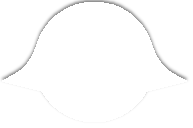
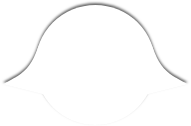
faster animation

diff --git a/index.js b/index.js
@@ -189,26 +189,26 @@ class TabBar extends Component {
     Animated.parallel([
       Animated.timing(this.animatedItemValues[index], {
         toValue: -30,
-        duration: 500,
-        delay: 300,
+        duration: 250,
+        delay: 20,
         easing: Easing.in(Easing.elastic(1.5)),
         useNativeDriver: true
       }),
       Animated.timing(this.animatedMiniBubbleValues[index], {
         toValue: 1,
-        duration: 1000,
-        delay: 300,
+        duration: 500,
+        delay: 20,
         useNativeDriver: true
       }),
       Animated.timing(this.animatedBubbleValues[index], {
         toValue: 1,
-        duration: 800,
+        duration: 400,
         easing: Easing.inOut(Easing.out(Easing.ease)),
         useNativeDriver: true
       }),
       Animated.timing(this.animatedImageValues[index], {
         toValue: 1,
-        duration: 800
+        duration: 400
       })
     ]).start();
   };
@@ -218,7 +218,7 @@ class TabBar extends Component {
       Animated.timing(this.animatedItemValues[index], {
         toValue: 0,
         duration: 400,
-        delay: 350,
+        delay: 175,
         useNativeDriver: true
       }),
       Animated.timing(this.animatedMiniBubbleValues[index], {
@@ -228,14 +228,14 @@ class TabBar extends Component {
       }),
       Animated.timing(this.animatedBubbleValues[index], {
         toValue: 0,
-        duration: 750,
+        duration: 375,
         easing: Easing.out(Easing.ease),
         useNativeDriver: true
       }),
       Animated.timing(this.animatedImageValues[index], {
         toValue: 0,
         duration: 400,
-        delay: 350
+        delay: 0
       })
     ]).start();
   };
@@ -279,9 +279,8 @@ const styles = {
     position: 'absolute',
     height: 60,
     width: 1000,
-    marginLeft: -20,
+    marginLeft: -18,
     backgroundColor: 'white',
-    elevation:0,
   },
   item: {
     backgroundColor: "white",
@@ -292,13 +291,12 @@ const styles = {
     justifyContent: "center",
   },
   mask: {
-    marginLeft: -20.4,
-    marginTop: -2.05,
+    marginLeft: -21,
+    marginTop: -1.3,
     position: 'absolute',
   },
   itemMask: {
     position: "absolute",
-    elevation: 1,
   },
   bubble: {
     position: "absolute",
